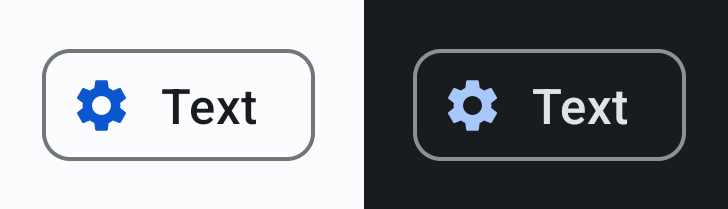
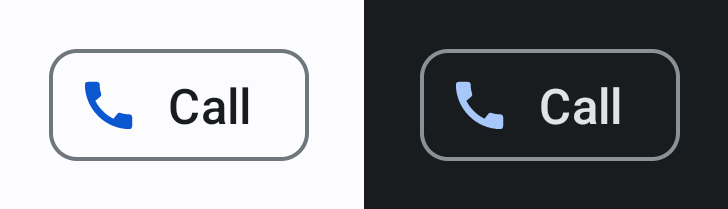
Fix Assist Chip

diff --git a/app/src/main/java/com/ivyapps/material3showcase/component/chips/FilterChip.kt b/app/src/main/java/com/ivyapps/material3showcase/component/chips/FilterChip.kt
@@ -1,0 +1,85 @@
+package com.ivyapps.material3showcase.component.chips
+
+import androidx.compose.foundation.layout.size
+import androidx.compose.material.icons.Icons
+import androidx.compose.material.icons.filled.Done
+import androidx.compose.material3.ExperimentalMaterial3Api
+import androidx.compose.material3.FilterChip
+import androidx.compose.material3.FilterChipDefaults
+import androidx.compose.material3.Icon
+import androidx.compose.material3.Text
+import androidx.compose.runtime.Composable
+import androidx.compose.runtime.getValue
+import androidx.compose.runtime.mutableStateOf
+import androidx.compose.runtime.remember
+import androidx.compose.runtime.setValue
+import androidx.compose.ui.Modifier
+import com.airbnb.android.showkase.annotation.ShowkaseComposable
+import com.ivyapps.material3showcase.component.ComponentPreview
+import com.ivyapps.material3showcase.component.ShowcasePreview
+import com.ivyapps.material3showcase.component.showkaseHeight
+import com.ivyapps.material3showcase.component.showkaseWidth
+
+@OptIn(ExperimentalMaterial3Api::class)
+@ComponentPreview
+@ShowkaseComposable(
+    name = "Default",
+    group = "Filter Chip",
+    widthDp = showkaseWidth,
+    heightDp = showkaseHeight,
+)
+@Composable
+fun FilterChipDefault() {
+    ShowcasePreview {
+        var selected by remember { mutableStateOf(true) }
+
+        FilterChip(
+            selected = selected,
+            onClick = { selected = !selected },
+            label = { Text("Filter chip") },
+            leadingIcon = if (selected) {
+                {
+                    Icon(
+                        imageVector = Icons.Filled.Done,
+                        contentDescription = "Done",
+                        modifier = Modifier.size(FilterChipDefaults.IconSize)
+                    )
+                }
+            } else {
+                null
+            }
+        )
+    }
+}
+
+@OptIn(ExperimentalMaterial3Api::class)
+@ComponentPreview
+@ShowkaseComposable(
+    name = "Custom",
+    group = "Filter Chip",
+    widthDp = showkaseWidth,
+    heightDp = showkaseHeight,
+)
+@Composable
+fun FilterChipCustom() {
+    ShowcasePreview {
+        var selected by remember { mutableStateOf(true) }
+
+        FilterChip(
+            selected = selected,
+            onClick = { selected = !selected },
+            label = { Text("Filter chip") },
+            leadingIcon = if (selected) {
+                {
+                    Icon(
+                        imageVector = Icons.Filled.Done,
+                        contentDescription = "Done",
+                        modifier = Modifier.size(FilterChipDefaults.IconSize)
+                    )
+                }
+            } else {
+                null
+            }
+        )
+    }
+}

diff --git a/app/src/main/java/com/ivyapps/material3showcase/component/chips/AssistChip.kt b/app/src/main/java/com/ivyapps/material3showcase/component/chips/AssistChip.kt
@@ -3,7 +3,7 @@ package com.ivyapps.material3showcase.component.chips
 import androidx.compose.foundation.layout.size
 import androidx.compose.foundation.shape.RoundedCornerShape
 import androidx.compose.material.icons.Icons
-import androidx.compose.material.icons.filled.Settings
+import androidx.compose.material.icons.filled.Call
 import androidx.compose.material3.AssistChip
 import androidx.compose.material3.AssistChipDefaults
 import androidx.compose.material3.Icon
@@ -33,12 +33,12 @@ fun AssistChipDefault() {
                 /* Do something! */
             },
             label = {
-                Text("Text")
+                Text("Call")
             },
             leadingIcon = {
                 Icon(
-                    Icons.Filled.Settings,
-                    contentDescription = "Settings",
+                    Icons.Filled.Call,
+                    contentDescription = "Call",
                     Modifier.size(AssistChipDefaults.IconSize)
                 )
             }
@@ -62,12 +62,12 @@ fun AssistChipCustom() {
                 /* Do something! */
             },
             label = {
-                Text("Text")
+                Text("Call")
             },
             leadingIcon = {
                 Icon(
-                    Icons.Filled.Settings,
-                    contentDescription = "Settings",
+                    Icons.Filled.Call,
+                    contentDescription = "Call",
                     Modifier.size(AssistChipDefaults.IconSize)
                 )
             },
